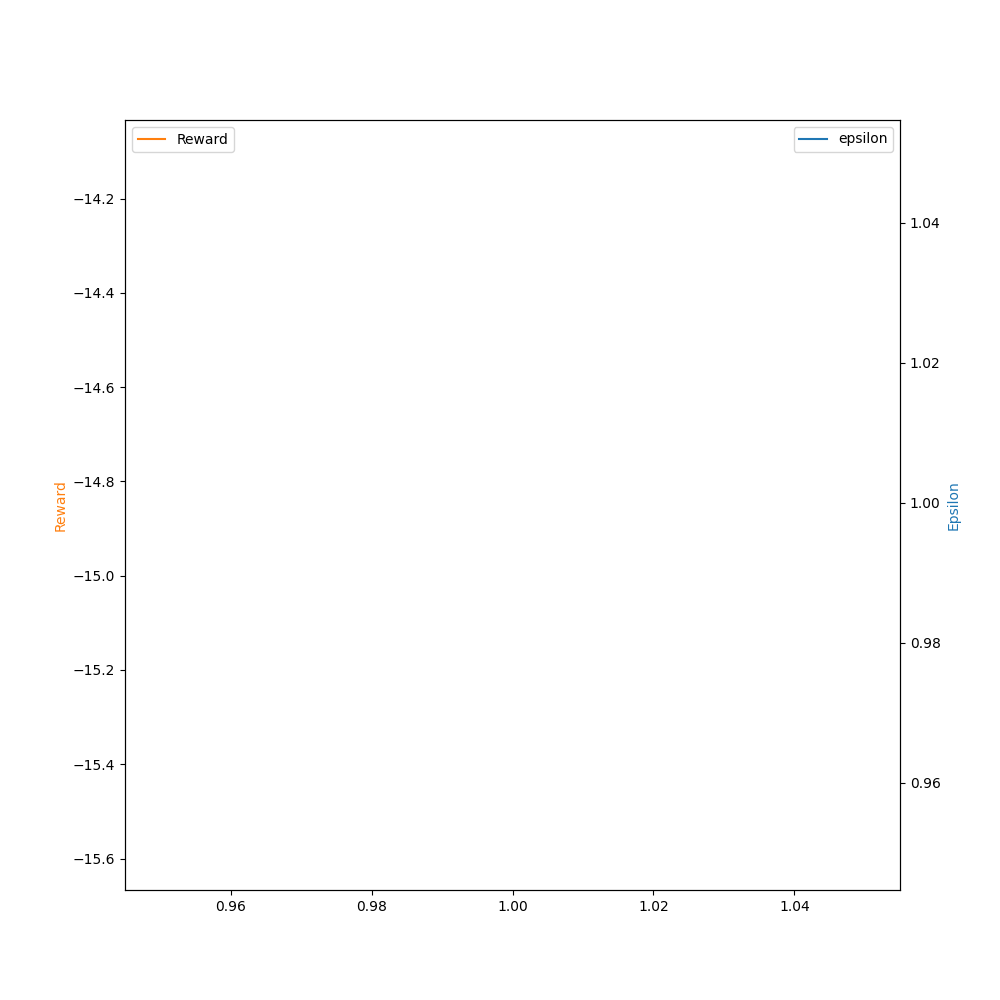
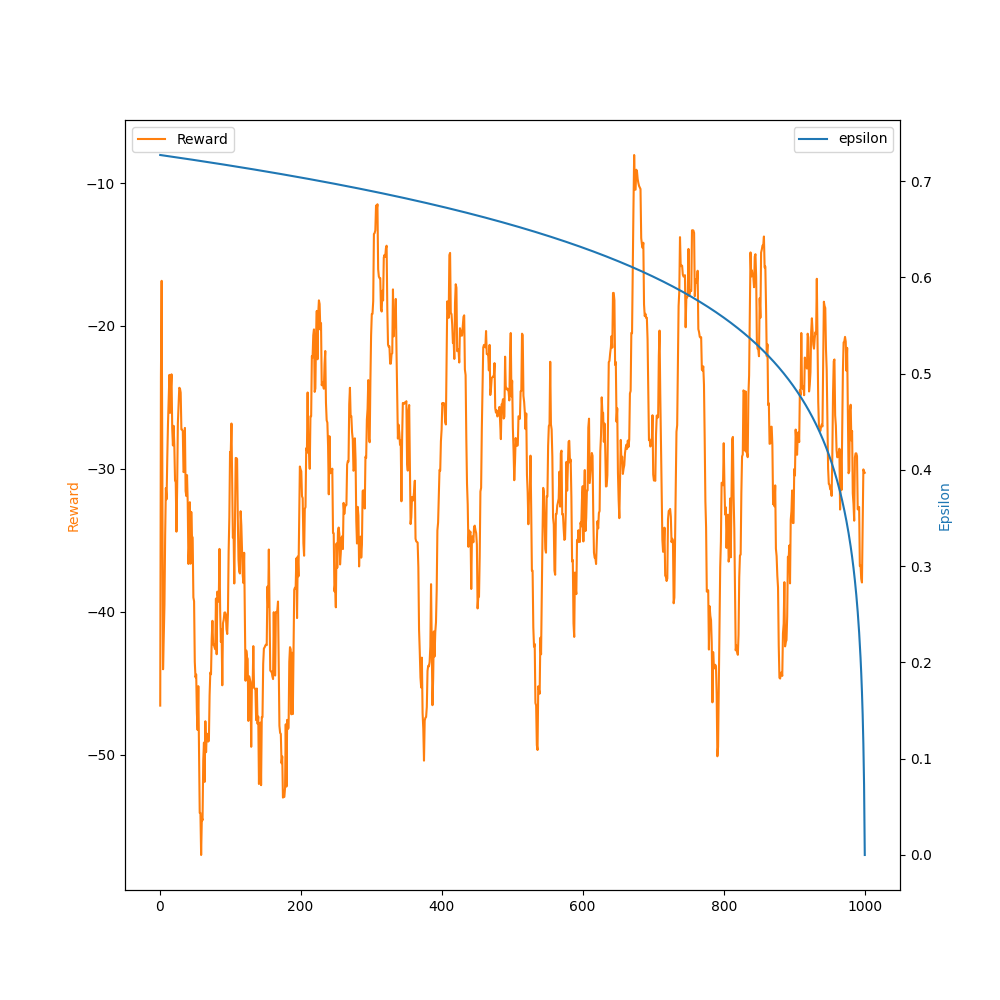
maybe progress?

diff --git a/Env/equations.py b/Env/equations.py
@@ -1,0 +1,68 @@
+import sumolib
+from xml.dom.minidom import parse
+import xml.etree.ElementTree as ET
+    
+    
+    
+    
+class Make_Graph:
+    def __init__(self,sumocfg) -> None:
+        self.sumocfg=sumocfg
+    
+    def parse_net_files(self):
+        tree = ET.parse(self.sumocfg)
+        root = tree.getroot()
+        for input in root.findall('input'):            
+            for network in input.findall('net-file'):
+                network_file=str(network.get('value'))
+            return network_file
+
+    def getEdgesInfo(self):
+        net_file=self.parse_net_files()
+        path_=self.sumocfg.rsplit('/')
+        net= sumolib.net.readNet(path_[0]+"/"+net_file)
+        out_dict = {}
+        length_dict = {}
+        index_dict = {}
+        edge_list = []
+        counter = 0
+        all_edges = net.getEdges()
+        for current_edge in all_edges:
+            current_edge_id = current_edge.getID()
+            if current_edge.allows("passenger"):
+                edge_list.append(current_edge)
+            if current_edge_id in index_dict.keys():
+                print(current_edge_id+" already exists!")
+            else:
+                index_dict[current_edge_id] = counter
+                counter += 1
+            if current_edge_id in out_dict.keys():
+                print(current_edge_id+" already exists!")
+            else:
+                out_dict[current_edge_id] = {}
+            if current_edge_id in length_dict.keys():
+                print(current_edge_id+" already exists!")
+            else:
+                length_dict[current_edge_id] = current_edge.getLength()
+            #edge_now is sumolib.net.edge.Edge
+            out_edges = current_edge.getOutgoing()
+            for current_out_edge in out_edges:
+                if not current_out_edge.allows("passenger"):
+                    #print("Found some roads prohibited")
+                    continue
+                conns = current_edge.getConnections(current_out_edge)
+                for conn in conns:
+                    dir_now = conn.getDirection()
+                    out_dict[current_edge_id][dir_now] = current_out_edge.getID()
+
+        return [ out_dict, index_dict, edge_list]
+    
+    
+    def edges_nodes(self):
+        out_dict, index_dict, edge_list =self.getEdgesInfo
+    
+graph_maker=Make_Graph("Nets/3x3b.sumocfg")
+
+# out_dict, index_dict, edge_list = graph_maker.getEdgesInfo()
+
+# print(edge_list)

diff --git a/test.py b/test.py
@@ -19,7 +19,7 @@ util=Utility()
 rewards,eps_history=[],[]
 for episode in range(EPISODES):
     
-    if (episode) % 10 == 0:
+    if (episode) % 100 == 0:
         env.render("gui")
     else:
         env.render("libsumo")
@@ -54,7 +54,7 @@ for episode in range(EPISODES):
            
     
     # agent.epsilon_decay()   
-    agent.epsilon_decay_2(episode,EPISODES)   
+    agent.epsilon_decay_3(episode,EPISODES)   
     
           
     r = float(EPISODE_REWARD)  
